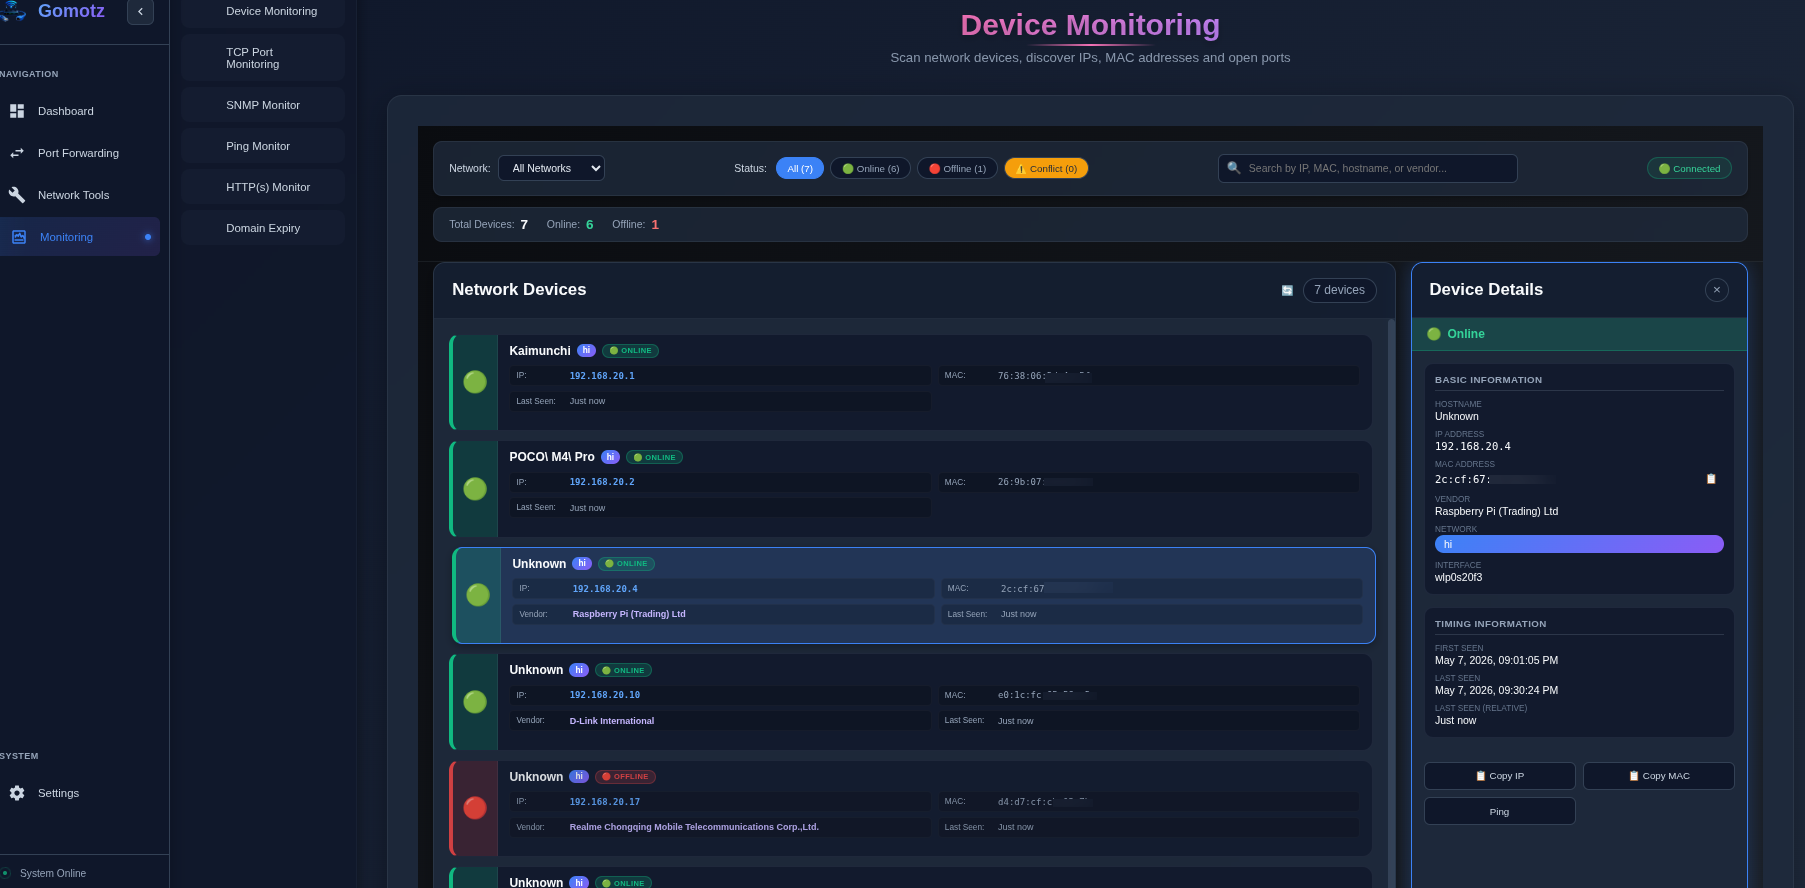
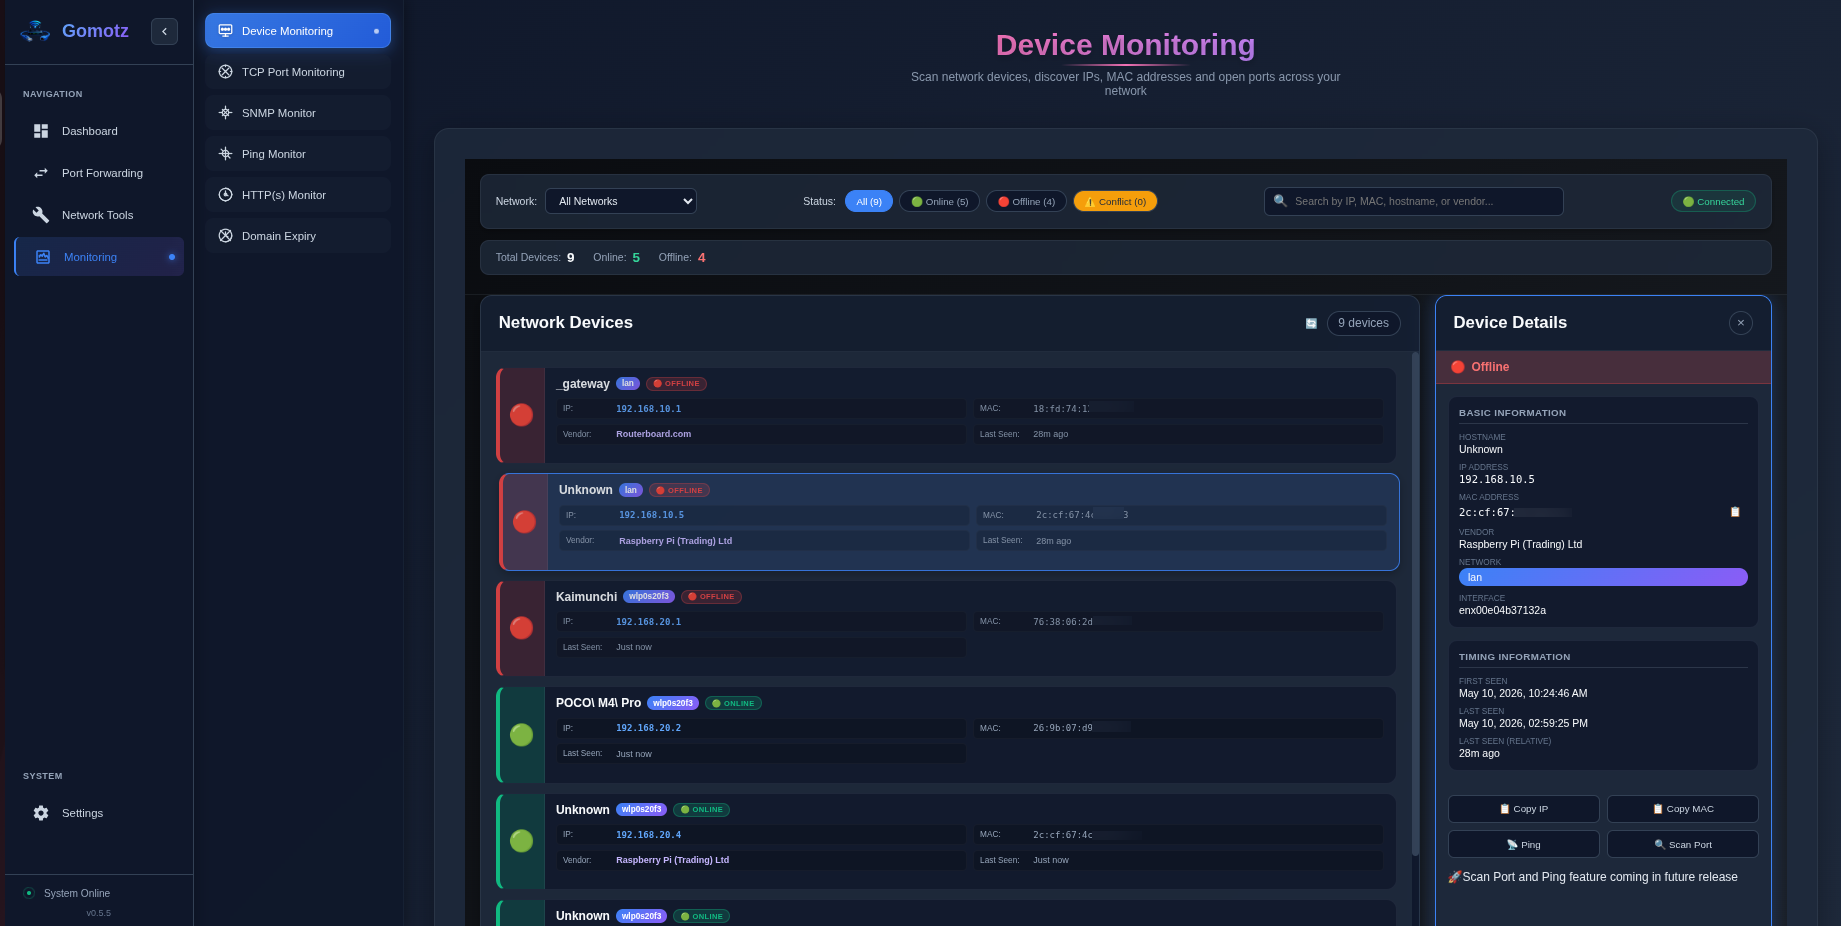
updated code and images

diff --git a/frontend/src/views/monitor/DomainExpiry.vue b/frontend/src/views/monitor/DomainExpiry.vue
@@ -15,13 +15,13 @@
     </div>
 
 
-    <div class="connection-bar" :class="connectionStatus">
+    <!-- <div class="connection-bar" :class="connectionStatus">
       <span class="dot"></span>
       <span>{{ connectionMessage }}</span>
       <button v-if="connectionStatus === 'disconnected'" @click="reconnectWebSocket" class="reconnect-btn">
         Reconnect
       </button>
-    </div>
+    </div> -->
 
 
     <div class="stats-row">

diff --git a/frontend/src/views/monitor/PingMonitor.vue b/frontend/src/views/monitor/PingMonitor.vue
@@ -7,13 +7,13 @@
     </div>
 
     <!-- Connection Status -->
-    <div class="connection-bar" :class="connectionStatus">
+    <!-- <div class="connection-bar" :class="connectionStatus">
       <span class="status-indicator"></span>
       <span class="status-text">{{ connectionMessage }}</span>
       <button v-if="connectionStatus === 'disconnected'" @click="connectWebSocket" class="reconnect-btn">
         Reconnect
       </button>
-    </div>
+    </div> -->
 
     <!-- Add New Monitor Form -->
     <div class="add-monitor-card">

diff --git a/backend/api/router.go b/backend/api/router.go
@@ -439,20 +439,17 @@ func (r *Router) testDomain(w http.ResponseWriter, req *http.Request) {
 		"name_servers":   result.NameServers,
 	})
 }
-
 func (r *Router) handleDomainWebSocket(w http.ResponseWriter, req *http.Request) {
 	if EnableCORS(&w, req) {
 		return
 	}
-
 	conn, err := r.upgrader.Upgrade(w, req, nil)
 	if err != nil {
-		log.Printf("[WS] Domain upgrade failed: %v", err)
+		log.Printf("[WS-DOMAIN] Upgrade failed: %v", err)
 		return
 	}
 	defer conn.Close()
-
-	log.Printf("[WS] Domain client connected from %s", req.RemoteAddr)
+	log.Printf("[WS-DOMAIN] Client connected from %s", req.RemoteAddr)
 	ctx, cancel := context.WithTimeout(r.ctx, 5*time.Second)
 	monitors, err := r.monitorDB.GetAllDomainExpiryMonitors(ctx)
 	cancel()
@@ -461,18 +458,32 @@ func (r *Router) handleDomainWebSocket(w http.ResponseWriter, req *http.Request)
 			"type":    "initial_state",
 			"domains": monitors,
 		}); err == nil {
+			conn.SetWriteDeadline(time.Now().Add(10 * time.Second))
 			conn.WriteMessage(websocket.TextMessage, data)
 		}
 	}
-	hubClient := &ws.Client{
-		Hub:  r.wsHub,
-		Conn: conn,
-		Send: make(chan []byte, 256),
-	}
-	r.wsHub.Register <- hubClient
-
-	defer func() {
-		r.wsHub.Unregister <- hubClient
+	sendCh := make(chan []byte, 256)
+	hubDone := make(chan struct{})
+	go func() {
+		defer close(hubDone)
+		for {
+			select {
+			case <-r.ctx.Done():
+				return
+			case msg, ok := <-r.wsHub.Broadcast:
+				if !ok {
+					return
+				}
+				var m map[string]interface{}
+				if json.Unmarshal(msg, &m) == nil && m["type"] == "domain_expiry_update" {
+					select {
+					case sendCh <- msg:
+					default:
+						log.Printf("[WS-DOMAIN] sendCh full, dropping message")
+					}
+				}
+			}
+		}
 	}()
 	listenConn, err := r.monitorDB.GetPool().Acquire(r.ctx)
 	if err != nil {
@@ -485,49 +496,75 @@ func (r *Router) handleDomainWebSocket(w http.ResponseWriter, req *http.Request)
 		return
 	}
 	pgCh := make(chan string, 32)
+	pgDone := make(chan struct{})
 	go func() {
+		defer close(pgDone)
 		for {
 			n, err := listenConn.Conn().WaitForNotification(r.ctx)
 			if err != nil {
-				close(pgCh)
+				log.Printf("[WS-DOMAIN] pg notify error: %v", err)
 				return
 			}
 			if n != nil {
-				pgCh <- n.Payload
+				select {
+				case pgCh <- n.Payload:
+				case <-r.ctx.Done():
+					return
+				}
 			}
 		}
 	}()
+	conn.SetReadLimit(512)
+	conn.SetReadDeadline(time.Now().Add(70 * time.Second))
+	conn.SetPongHandler(func(string) error {
+		conn.SetReadDeadline(time.Now().Add(70 * time.Second))
+		return nil
+	})
 
-	pingTicker := time.NewTicker(30 * time.Second)
+	readDone := make(chan struct{})
+	go func() {
+		defer close(readDone)
+		for {
+			_, _, err := conn.ReadMessage()
+			if err != nil {
+				log.Printf("[WS-DOMAIN] Read closed: %v", err)
+				return
+			}
+		}
+	}()
+	pingTicker := time.NewTicker(54 * time.Second)
 	defer pingTicker.Stop()
-
 	for {
 		select {
 		case <-r.ctx.Done():
+			log.Printf("[WS-DOMAIN] Server context done, closing")
+			return
+		case <-readDone:
+			log.Printf("[WS-DOMAIN] Client disconnected")
 			return
 
 		case <-pingTicker.C:
+			conn.SetWriteDeadline(time.Now().Add(10 * time.Second))
 			if err := conn.WriteMessage(websocket.PingMessage, nil); err != nil {
 				log.Printf("[WS-DOMAIN] Ping failed: %v", err)
 				return
 			}
 
-		case payload, ok := <-hubClient.Send:
+		case payload, ok := <-sendCh:
 			if !ok {
 				return
 			}
-			var msg map[string]interface{}
-			if json.Unmarshal(payload, &msg) == nil && msg["type"] == "domain_expiry_update" {
-				if err := conn.WriteMessage(websocket.TextMessage, payload); err != nil {
-					log.Printf("[WS-DOMAIN] Write error: %v", err)
-					return
-				}
+			conn.SetWriteDeadline(time.Now().Add(10 * time.Second))
+			if err := conn.WriteMessage(websocket.TextMessage, payload); err != nil {
+				log.Printf("[WS-DOMAIN] Write error: %v", err)
+				return
 			}
 
 		case payload, ok := <-pgCh:
 			if !ok {
 				return
 			}
+			conn.SetWriteDeadline(time.Now().Add(10 * time.Second))
 			if err := conn.WriteMessage(websocket.TextMessage, []byte(payload)); err != nil {
 				log.Printf("[WS-DOMAIN] Write error: %v", err)
 				return